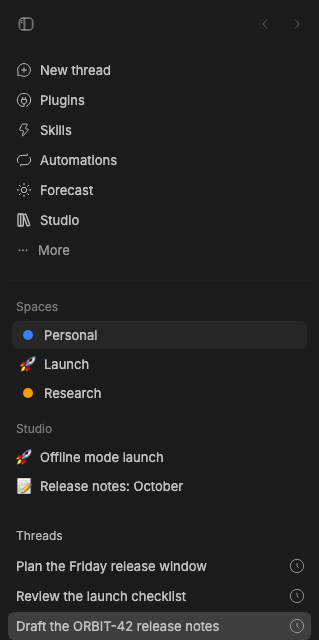
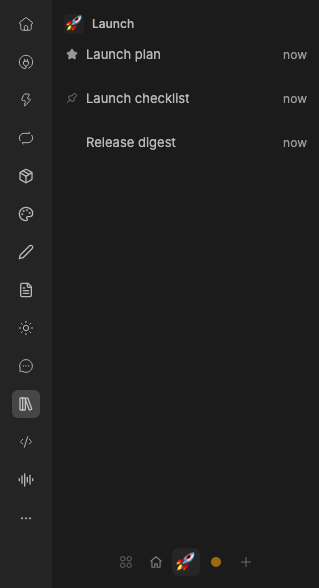
Studio Sidebar: recapture the staged previews
The Space view is now the staged preview; the Studio tabs capture goes, since
Studio hides its tabs section beside a Space list.

diff --git a/packages/bb-studio-sidebar/README.md b/packages/bb-studio-sidebar/README.md
@@ -14,8 +14,9 @@ stays installed, for its project, section and machine views.
 
 ## Features
 
-- **Studio sections above your threads.** Studio's tabs for the items you
-  have open sit at the top, in the same scroll area as the threads.
+- **Studio sections above your threads.** A Studio app can add a section at
+  the top, in the same scroll area. (Studio hides its tabs section here: open
+  items live in Studio's own tabs.)
 - **One Space at a time**, like Arc. Studio's own **Spaces** section steps
   aside while this list shows.
 - **Switcher.** A row of dots at the bottom of the list. The first, a grid,
@@ -63,18 +64,10 @@ defines no agent tools and no `settings.define` entries.
 
 ## Staged preview
 
-![Studio section with two open tabs above the threads](assets/staged-preview.png)
+![Threads organized by Studio Space](assets/staged-preview.png)
 
 Captured from the sidebar of a staged BB (`node scripts/staged-bb.mjs start`),
-with Studio Sidebar as the thread list provider. Two staged pages, "Offline
-mode launch" and "Release notes: October", were opened, so the Studio section
-lists them as tabs above the threads. The capture asserts that both tabs are
-present, that the section sits above the threads, and that it has no scroll
-area of its own.
-
-![Threads organized by Studio Space](assets/by-space.png)
-
-The Space capture creates two Spaces, Launch (🚀) and Research, and adds
+with Studio Sidebar as the thread list provider. The capture creates two Spaces, Launch (🚀) and Research, and adds
 "Launch plan", "Launch checklist", and "Release digest" to Launch, and "Paper
 notes" and "Atlas weekly sync" to Research. It makes Launch plan the Space's
 lead and pins Launch checklist, then shows Launch. The live check verifies
